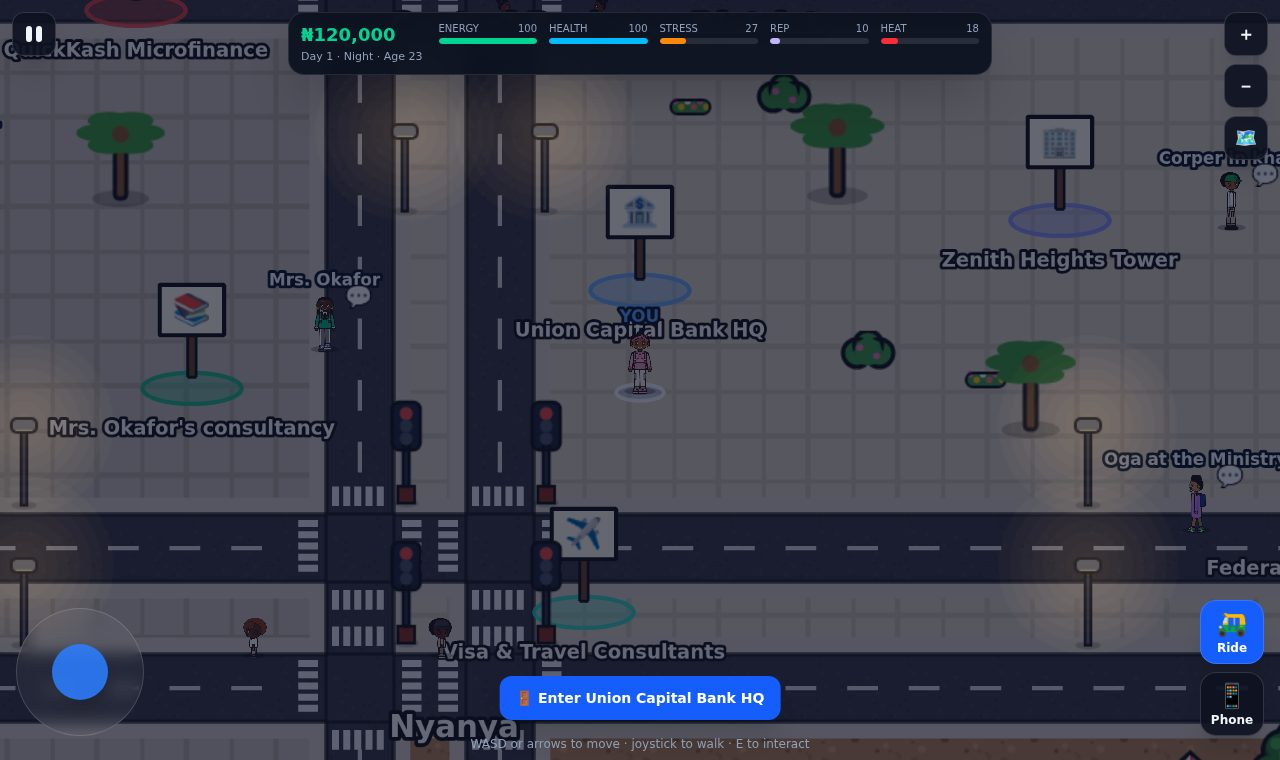
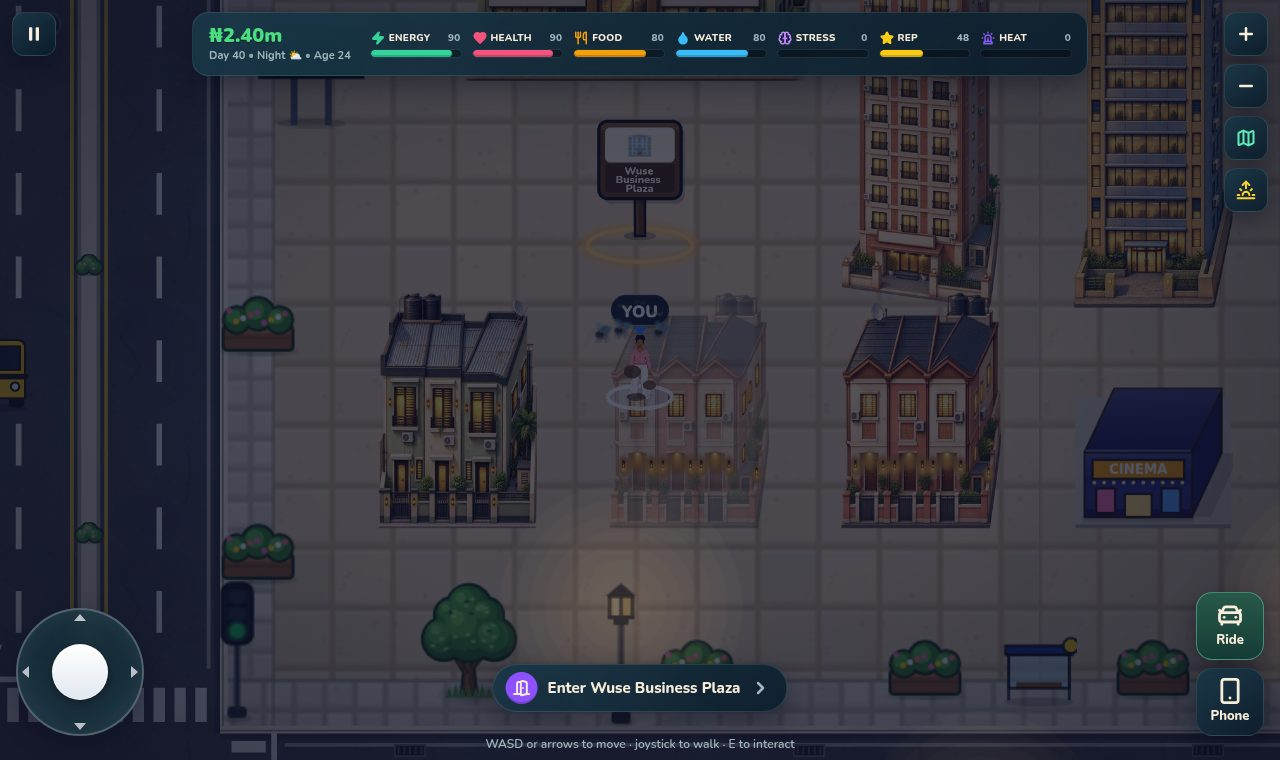
Update the Abuja Hustle game page with the new features and screenshots
Fresh screenshots of the painted city, Bankers' Row, bank careers, the
third-person ride, missions, nepo friends, the court, Kuje prison and the new
phones, with New tags on what's changed, and the home page card refreshed.

Claude-Session: https://claude.ai/code/session_01TAdDSQqekeJv2q58kGwNRh

diff --git a/src/routes/discover/abuja-hustle.tsx b/src/routes/discover/abuja-hustle.tsx
@@ -9,7 +9,7 @@ export const Route = createFileRoute("/discover/abuja-hustle")({
       {
         name: "description",
         content:
-          "Grow up in Abuja without privilege. Walk the city, go into homes and offices, talk to people, take okadas and kekes, dodge QuickKash and chase financial freedom. Free to play on your phone or computer. 18+.",
+          "Grow up in Abuja, from primary school to adult life. Walk a hand-painted city, build a banking career, trade, bet, start businesses, make well-connected friends, and stay out of Kuje prison. Free to play on your phone or computer. 18+.",
       },
     ],
   }),
@@ -18,46 +18,101 @@ export const Route = createFileRoute("/discover/abuja-hustle")({
 
 const shot = (name: string) => `/shots/abuja-hustle/${name}.jpg`;
 
-const FEATURES: { title: string; text: string; image: string; phone?: boolean; alt: string }[] = [
+const FEATURES: { title: string; text: string; image: string; phone?: boolean; alt: string; isNew?: boolean }[] = [
   {
     title: "Make someone who looks like you",
-    text: "Pick your skin tone, hairstyle, outfit, shoes and accessories in a cartoon style. Change your look any time in the Wardrobe, and watch your character grow up at 18.",
+    text: "Pick your skin tone, hairstyle, outfit, shoes and accessories. Change your look any time in the Wardrobe, and watch your character grow up.",
     image: "creator",
     phone: true,
     alt: "The character creator with hair and outfit choices",
   },
   {
     title: "Grow up, chapter by chapter",
-    text: "Primary school, secondary school, university and youth service. Walk to each moment of your story and make the choices that shape who you become.",
+    text: "Primary school, secondary school, university and youth service. Crushes, prefect elections, interhouse sports, side hustles, and choices that can get you suspended or expelled.",
     image: "chapter",
     phone: true,
     alt: "A school chapter with a story speech bubble",
   },
   {
-    title: "A whole city to walk around",
-    text: "Gwarinpa, Wuse, the Central Business District, Jabi Lake and more. Office towers, traffic lights, danfos and kekes, and people going about their day.",
+    title: "A hand-painted Abuja to walk around",
+    text: "Gwarinpa, Wuse, the Central Business District, Jabi Lake, Nyanya and more, with painted homes, towers, shops and landmarks, and room between them to wander.",
     image: "city",
-    alt: "The open city of Abuja with roads, towers and traffic",
+    alt: "The painted city of Abuja with towers, homes and traffic",
+    isNew: true,
   },
   {
-    title: "Go inside, from a one-room flat to a mansion",
-    text: "Walk into homes, offices, the bank, the hospital and the mall. Lapo homes and middle-class flats each have their own bedroom and bathroom, down to the Peak milk on the stool.",
+    title: "Go inside, from a one-room flat to a banking hall",
+    text: "Walk into homes, offices, the hospital and the mall. Decorate your own place, down to the Peak milk on the stool.",
     image: "bedroom",
     alt: "A furnished bedroom inside a home",
   },
   {
     title: "Talk to the people of Abuja",
-    text: "Mama, Tunde, Mrs. Okafor, the agbero at the motor park. Everyone has something to say, and some of them have offers you can take or refuse.",
+    text: "Mama, Tunde, Mrs. Okafor, the agbero at the motor park. Everyone remembers how you treated them, and some of them have offers you can take or refuse.",
     image: "chat",
     phone: true,
     alt: "A conversation shown in a speech bubble with the speaker's face",
   },
   {
-    title: "Okada, keke, taxi or bus",
-    text: "Fares go by distance. Okadas are fastest, taxis keep you calm, the bus is cheap but slow. Then ride along the roads to where you're going.",
-    image: "ride",
-    alt: "Choosing a ride and fare on the in-game phone",
+    title: "Build a banking career",
+    text: "44 fictional banks, each with its own culture, perks and interview questions. Apply at Bankers' Row, pass the assessments, train, work the counter, and climb from graduate trainee towards the boardroom.",
+    image: "bank",
+    alt: "The banking hall at Bankers' Row with the teller counter and vacancy board",
+    isNew: true,
+  },
+  {
+    title: "Every bank has its own process",
+    text: "Graduate programmes, internships, experienced and specialist hires, agency contracts, staff loans, interest-free Murabaha finance, reviews and promotion panels. An independent simulation: no bank is affiliated.",
+    image: "careers",
     phone: true,
+    alt: "The vacancy board on the in-game phone",
+    isNew: true,
+  },
+  {
+    title: "Ride through the city in third person",
+    text: "Take an okada, a keke, a taxi or the bus and watch the real route from behind as your driver weaves through traffic. Or drive your own car, and watch out for FRSC.",
+    image: "ride-view",
+    alt: "Riding a taxi through Abuja seen from behind",
+    isNew: true,
+  },
+  {
+    title: "Pick your path to financial freedom",
+    text: "A career, a business, trading, betting, going viral, hustling, connections or fast money. Missions point you to every opportunity in Abuja, with rewards at each step.",
+    image: "missions",
+    phone: true,
+    alt: "The Missions app showing a trading path",
+    isNew: true,
+  },
+  {
+    title: "Make friends in high places",
+    text: "Bump into the children of oil chiefs, judges and bankers at school or around town. Their favours open doors: referrals, lawyers, tips, and files that go quiet.",
+    image: "nepo",
+    phone: true,
+    alt: "Meeting a nepo-baby friend",
+    isNew: true,
+  },
+  {
+    title: "Get caught, and face the court",
+    text: "Hire Legal Aid, a private lawyer or a Senior Advocate. Try to settle the case (it's never guaranteed), plead, and hear the verdict.",
+    image: "court",
+    phone: true,
+    alt: "The High Court screen with lawyers and pleas",
+    isNew: true,
+  },
+  {
+    title: "Serve your time, or go over the wall",
+    text: "Life inside Kuje: work, study, chapel, the yard and visiting day. Good behaviour cuts your sentence. Or plan an escape past the floodlight, the fence and the dogs.",
+    image: "prison",
+    alt: "The cell block at Kuje Custodial Centre",
+    isNew: true,
+  },
+  {
+    title: "A phone that says who you are",
+    text: "Start on a battered Kpakpa and work up to a Pear Pro Max or a folding phone. Each one looks different and lays out your apps its own way, and the flagships raise your reputation.",
+    image: "phones",
+    phone: true,
+    alt: "A flagship phone home screen with a dock",
+    isNew: true,
   },
   {
     title: "Abuja after dark",
@@ -100,7 +155,7 @@ function GamePage() {
             </div>
             <h1 className="mt-5 font-display text-5xl tracking-tight text-balance sm:text-6xl">Abuja Hustle</h1>
             <p className="mt-4 max-w-xl text-xl text-pretty text-slate-200">
-              Grow up in Abuja without privilege. Dodge QuickKash, outwork the Nepo Babies, and chase financial freedom.
+              Grow up in Abuja, from primary school to adult life. Build a career, a business or a following, make friends in high places, and chase financial freedom without ending up in Kuje.
             </p>
             <p className="mt-3 max-w-xl text-pretty text-slate-300">
               A satirical life sim you play in your browser, on your phone or computer. Sign in to save your progress.
@@ -117,7 +172,10 @@ function GamePage() {
         {FEATURES.map((f, i) => (
           <section key={f.title} className={`grid items-center gap-10 md:grid-cols-2 ${i % 2 ? "md:[&>*:first-child]:order-2" : ""}`}>
             <div>
-              <p className="text-sm font-semibold tracking-widest text-pine uppercase">{String(i + 1).padStart(2, "0")}</p>
+              <p className="text-sm font-semibold tracking-widest text-pine uppercase">
+                {String(i + 1).padStart(2, "0")}
+                {f.isNew ? <span className="ml-2 rounded-full bg-pine/10 px-2 py-0.5 text-[11px] tracking-normal normal-case">New</span> : null}
+              </p>
               <h2 className="mt-2 font-display text-3xl tracking-tight text-balance sm:text-4xl">{f.title}</h2>
               <p className="mt-3 max-w-lg text-lg text-pretty text-muted">{f.text}</p>
             </div>
@@ -130,10 +188,14 @@ function GamePage() {
         <h2 className="font-display text-3xl tracking-tight">Your phone runs your life</h2>
         <ul className="mt-6 grid gap-4 text-sm sm:grid-cols-2 lg:grid-cols-4">
           {[
-            ["💼 Jobs", "Deliveries, hawking at Wuse Market, driving for Zoom and OwnPrice."],
-            ["💸 QuickKash", "Loans when you're desperate. Read the terms. Felix won't."],
+            ["🎯 Missions", "Your path to financial freedom, one step at a time."],
+            ["🏦 Bank Careers", "Vacancies from 44 fictional banks, applications and your career."],
             ["📈 Trade", "Stocks, crypto and dollars, with all the risk that comes with them."],
-            ["💗 Linkup", "Dates, relationships, weddings and everything in between."],
+            ["⚽ OddsNaija", "Fictional football, real odds. Set a limit: the bookie usually wins."],
+            ["📸 Instaflex", "Followers, trolls, brand deals, and the temptation to buy likes."],
+            ["💎 Connects", "Your nepo friends, hangouts and the favours they can do."],
+            ["⚖ Legal", "The evidence against you: destroy it, or lay low and keep the perks."],
+            ["💸 QuickKash", "Loans when you're desperate. Read the terms. Felix won't."],
           ].map(([title, text]) => (
             <li key={title} className="rounded-2xl bg-paper p-4">
               <p className="font-semibold">{title}</p>

diff --git a/src/routes/index.tsx b/src/routes/index.tsx
@@ -141,11 +141,11 @@ function FeaturedSix() {
             <img src="/abuja-hustle-192.png" alt="" className="size-12 shrink-0 rounded-2xl" />
             <div className="min-w-0">
               <p className="font-display text-xl tracking-tight">Abuja Hustle</p>
-              <p className="text-xs font-semibold tracking-widest text-sky-300 uppercase">New game · 18+</p>
+              <p className="text-xs font-semibold tracking-widest text-sky-300 uppercase">Free game · 18+ · Updated</p>
             </div>
           </div>
           <p className="mt-3 flex-1 text-sm text-pretty text-slate-200">
-            A life sim. Grow up in Abuja without privilege, dodge QuickKash, and chase financial freedom.
+            A life sim. Grow up in a hand-painted Abuja, build a banking career, make friends in high places, and chase financial freedom.
           </p>
           <span className="mt-4 inline-flex items-center gap-1 text-sm font-semibold text-blue-300">
             See the game <span aria-hidden className="transition group-hover:translate-x-0.5">→</span>
